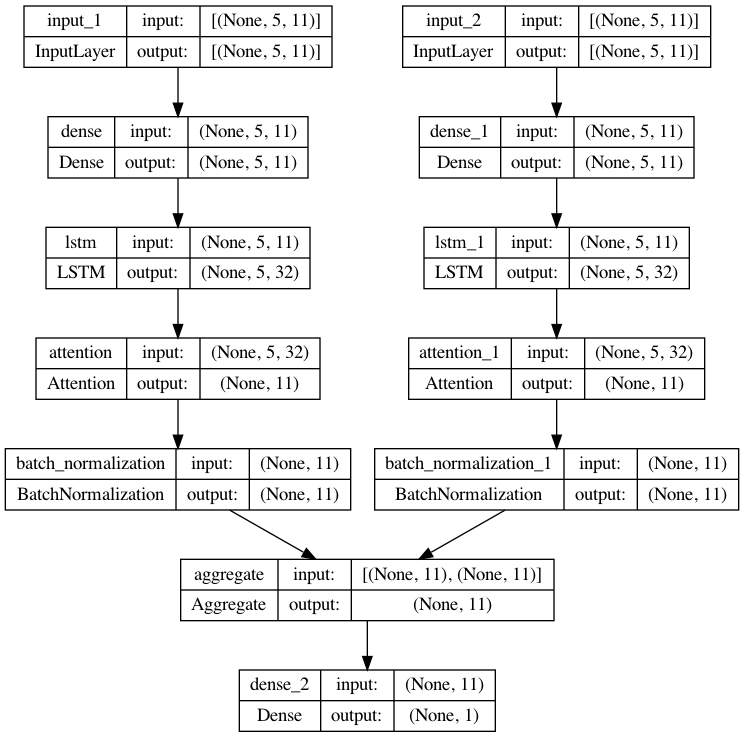
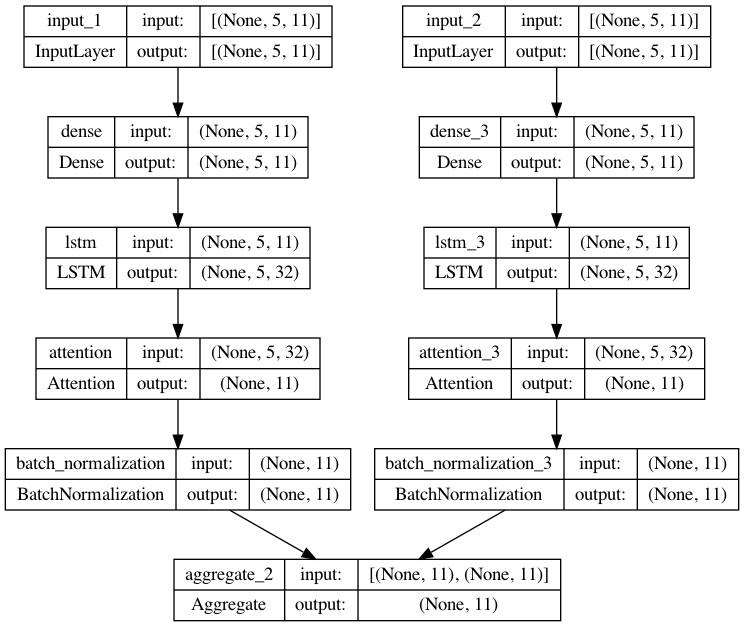
finished implementing context aggregation but need refactoring

Changed region(s): [[0.0, 0.0, 1.0, 1.0]]

diff --git a/main.py b/main.py
@@ -10,9 +10,11 @@ from keras.layers import Dense
 from keras.layers import LSTM
 from keras.layers import BatchNormalization
 from keras.models import Model
+from keras.layers import MultiHeadAttention
 from keras.utils.vis_utils import plot_model
 
 from attention import Attention
+from keract import get_activations
 from aggregate import *
 from load import load_data
 
@@ -53,23 +55,23 @@ def time_axis_attention(model_input, feature_dim, units):
     return x
 
 def context_aggregation(index_data, stock_data):
-
-    i = 0
     stock_model = [None]*len(stock_data)
     model = [None]*len(stock_data)
     
     index_input = Input(shape=(args.time_steps, g_params['feature_dim']))
     stock_input = Input(shape=(args.time_steps, g_params['feature_dim']))
 
-    index = time_axis_attention(index_input, g_params['feature_dim'], args.units)
-    index = Model(inputs=index_input, outputs=index)
+    context_aggregation_result = []
 
-    for i, stock in enumerate(stock_data[:1]):
+    index_model = time_axis_attention(index_input, g_params['feature_dim'], args.units)
+    index_model = Model(inputs=index_input, outputs=index_model)
+
+    for i, stock in enumerate(stock_data[:3]):
         stock_model[i] = time_axis_attention(stock_input, g_params['feature_dim'], args.units)
         stock_model[i] = Model(inputs=stock_input, outputs=stock_model[i])
-        merged = Aggregate(g_params['feature_dim'])([index.output, stock_model[i].output])
-        z = Dense(1, activation="sigmoid")(merged)
-        model[i] = Model(inputs=[index.input, stock_model[i].input], outputs=z)
+        merged = Aggregate(g_params['feature_dim'])([index_model.output, stock_model[i].output])
+        # # z = Dense(1, activation="sigmoid")(merged)
+        model[i] = Model(inputs=[index_model.input, stock_model[i].input], outputs=merged)
         model[i].compile(loss='mae', optimizer='adam')
         plot_model(model[i], to_file='model_plot.png', show_shapes=True, show_layer_names=True)
 
@@ -77,38 +79,35 @@ def context_aggregation(index_data, stock_data):
                             validation_data=([index_data['X_val'],stock_data[i]['X_val']], stock_data[i]['y_val']),
                             epochs=args.epochs
                             )
-        print(history.history)
+        # print(history.history)
+        context_aggregation_result.append(model[i].predict([index_data['X_train'],stock_data[i]['X_train']]))
 
-        y_pred = model[i].predict([index_data['X_test'][:-1], stock_data[i]['X_test']])
-        print(y_pred)
-
-        # context vector
-        # intermediate_layer_model = Model(inputs=model.input, outputs=model.layers[-1].output)
-        # intermediate_output = intermediate_layer_model('X_train').numpy()
-        # return intermediate_output
-
-def context_aggregation_evaluate(model,X_test, y_pred):
-
-    y_pred = model.predict([index_data['X_test'][:-1], stock_data[0]['X_test']])
-
+    return context_aggregation_result
     
+def reshape_data(input):
+    result = [[None] for x in range(len(input[0][1]))]
+    print(len(input[0][0]))
+    print(len(input[0][1]))
+    for i in range(len(input[0][1])): #1980
+        for j in range(len(input[0][0])): #50
+        
+            result[i][j] = input[j][i]
 
-# # aggregate market context with individual stock context
-# # summary the indivisual context with a global trend
-# def context_aggregation():
-#     pass
-# # learn the stock correlation by a transformer
-# def data_axis_attention():
-#     pass
+    # print(result.shape)
+    return result 
 
-
-
-# if __name__ == '__main__':
-#     print('main.py')
-#     load_data()
-#     time_axis_attention()
-#     context_aggregation()
-#     data_axis_attention()
+def data_axis_attention(context_aggregation_result):
+    print(context_aggregation_result[19])
+    print(context_aggregation_result[19].shape)
+    
+    model_input = Input(shape=(50,11))
+    x = MultiHeadAttention(num_heads=2, key_dim=2)(model_input)
+    # x = onlineartransformation()
+    x = Dense(1, activation='sigmoid')(x)
+    model = Model(input=model_input, output = x)
+    return model
+    
+    
 
 if __name__ == '__main__':
     desc = 'the DTML model'
@@ -146,7 +145,9 @@ if __name__ == '__main__':
     # print(index_data['X_train'].shape)
     # print(g_params['feature_dim'])
     # print(stock_data[0]['X_train'].shape)
-    context_aggregation(index_data, stock_data)
+    context_aggregation_result = context_aggregation(index_data, stock_data)
+    context_aggregation_result = reshape_data(context_aggregation_result)
+    # data_axis_attention(context_aggregation_result)
     # print(index_data['X_test'].shape)
     # print(stock_data[0]['X_test'].shape)
     # print(stock_data[0]['y_train'])
